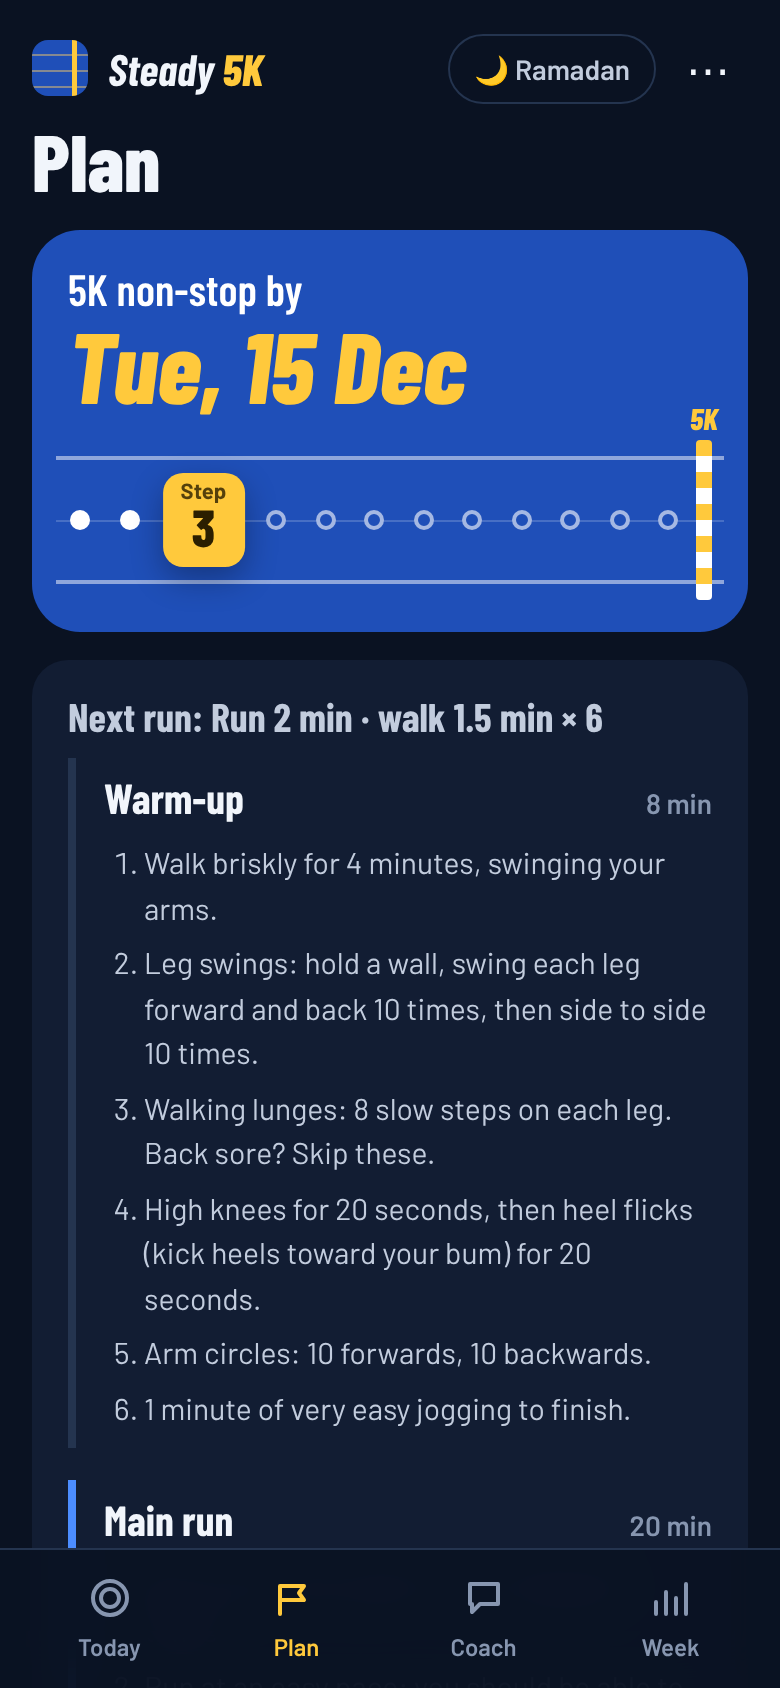
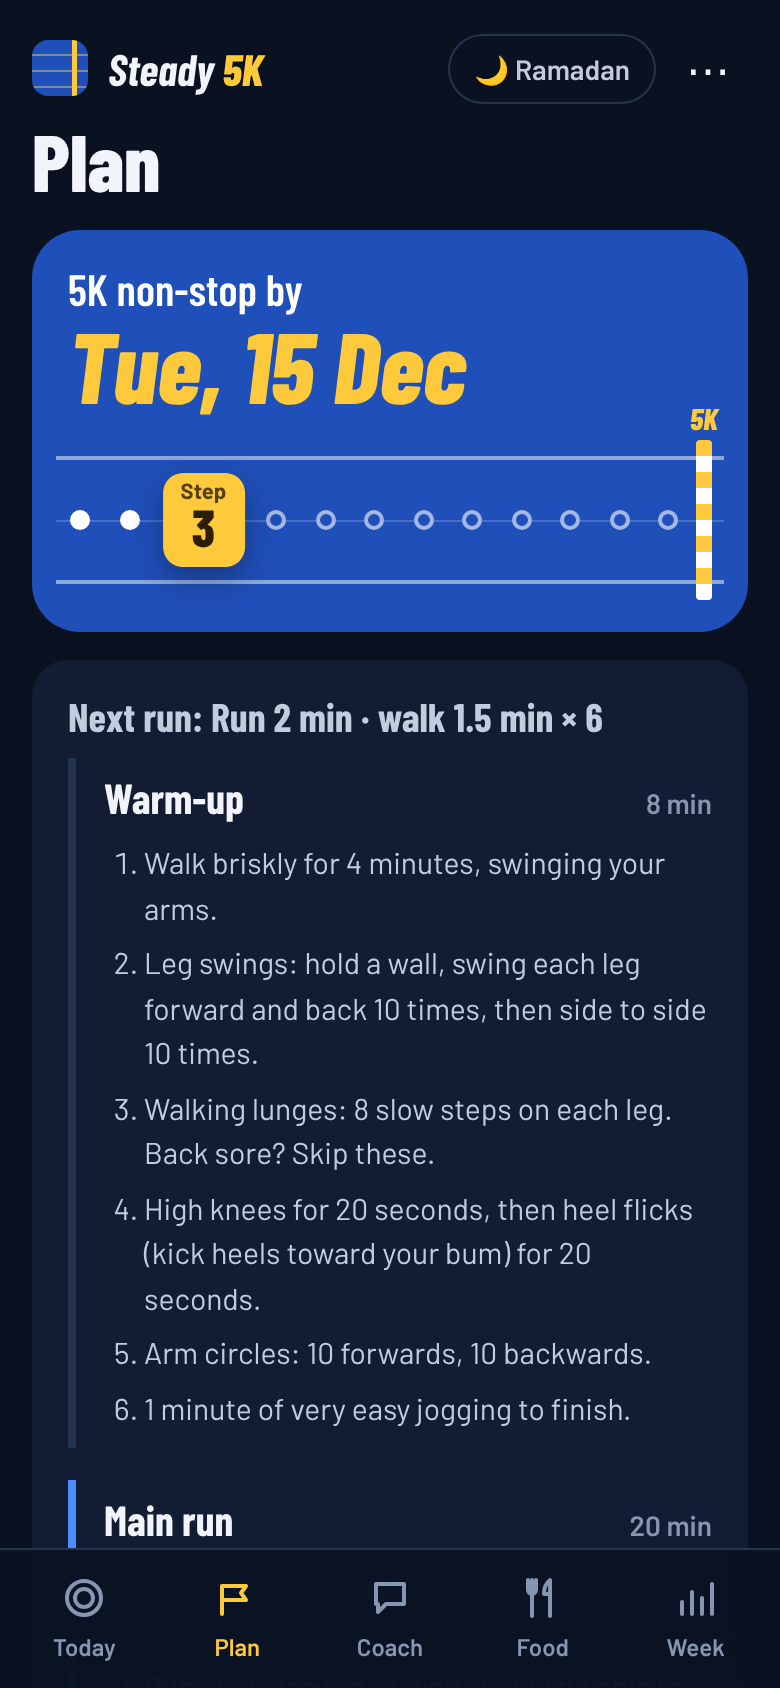
Add a calorie tracker: Food tab to add meals by typing or voice, AI estimates per item, grouped by meal, remove, 7-day chart
Claude-Session: https://claude.ai/code/session_01KnAXkYM5bv2tZhbofiWiib

diff --git a/app.js b/app.js
@@ -160,7 +160,7 @@
     return addDays(new Date(), Math.max(days, S.step === LAST ? 0 : 2));
   }
   function context() {
-    const recent = S.logs.slice(-4).map((l) => ({ date: l.date, said: l.text.slice(0, 200), action: l.parsed?.plan_action, red_flag: l.parsed?.red_flag }));
+    const recent = S.logs.filter((l) => l.kind !== 'meal').slice(-4).map((l) => ({ date: l.date, said: l.text.slice(0, 200), action: l.parsed?.plan_action, red_flag: l.parsed?.red_flag }));
     return {
       today: dayKey(), time: new Date().toTimeString().slice(0, 5),
       goals: Object.keys(S.goals || {}).map(labelOf), goal_in_focus: S.goal ? labelOf(S.goal) : '', running_goal: hasRun() ? GOAL.title : 'none', plan_ladder: STEPS.slice(1).map((_, i) => `${i + 1} ${stepText(i + 1)}`).join('; '),
@@ -268,7 +268,7 @@
   }
   function setTab(t) {
     tab = t;
-    for (const n of ['today', 'plan', 'coach', 'week']) $('tab-' + n).hidden = n !== t;
+    for (const n of ['today', 'plan', 'coach', 'food', 'week']) $('tab-' + n).hidden = n !== t;
     document.querySelectorAll('#tabbar button').forEach((b) => b.toggleAttribute('aria-current', b.dataset.tab === t));
     $('dock').hidden = t !== 'coach';
     $('tabbar').hidden = false;
@@ -291,6 +291,80 @@
         `<circle cx="${C}" cy="${C}" r="${r}" class="r-fg" style="stroke:${p.color};stroke-dasharray:${len};stroke-dashoffset:${len * (1 - f)}"/>`;
     }).join('');
     return `<svg viewBox="0 0 180 180" role="img" aria-label="${parts.map((p) => `${p.label} ${p.text}`).join(', ')}">${arcs}</svg>`;
+  }
+
+  // ---------- Food tab: calorie tracker (rough ranges, no targets) ----------
+  const SLOTS = ['Breakfast', 'Lunch', 'Snacks', 'Dinner'];
+  const slotNow = () => { const h = new Date().getHours(); return h < 11 ? 'Breakfast' : h < 16 ? 'Lunch' : h < 19 ? 'Snacks' : 'Dinner'; };
+  let mealSlot = slotNow();
+  const r50 = (n) => Math.round(n / 50) * 50;
+
+  function renderFood(T) {
+    document.querySelectorAll('#segMeal button').forEach((b) => b.setAttribute('aria-checked', String(b.dataset.v === mealSlot)));
+    $('foodDayTotal').innerHTML = T.food ? `<b>${r50(T.kLow)}–${r50(T.kHigh)}</b> kcal today, approx.` : 'Nothing logged yet today. Add what you ate above.';
+    const groups = {};
+    S.logs.forEach((l, li) => {
+      if (l.date !== dayKey()) return;
+      (l.parsed?.log?.meals || []).forEach((m, mi) => {
+        const g = l.kind === 'meal' ? (l.slot || 'Snacks') : 'From your check-ins';
+        (groups[g] = groups[g] || []).push({ ...m, li, mi });
+      });
+    });
+    const order = [...SLOTS, 'From your check-ins'].filter((g) => groups[g]);
+    $('mealGroups').innerHTML = order.map((g) => {
+      const lo = groups[g].reduce((a, m) => a + (+m.kcal_low || 0), 0), hi = groups[g].reduce((a, m) => a + (+m.kcal_high || 0), 0);
+      return `<div class="meal-group"><div class="mg-h"><b>${g}</b><span>${r50(lo)}–${r50(hi)} kcal</span></div><ul class="meals">${groups[g].map((m) =>
+        `<li><span>${esc(m.item)}</span><b>${m.kcal_low}–${m.kcal_high}</b><button class="rm" data-rm="${m.li}:${m.mi}" aria-label="Remove ${esc(m.item)}">×</button></li>`).join('')}</ul></div>`;
+    }).join('');
+    $('fuelNote').textContent = T.run ? 'You ran today, so make sure your meals have enough carbs and protein to recover.' : '';
+    let cb = ''; const cv = [];
+    for (let i = 6; i >= 0; i--) { const k = dayKey(addDays(new Date(), -i)); const D = dayTotals(k); cv.push([k, D.food ? Math.round((D.kLow + D.kHigh) / 2) : 0]); }
+    const cmax = Math.max(1000, ...cv.map((v) => v[1]));
+    for (const [k, v] of cv) cb += `<div class="wb ${k === dayKey() ? 'today' : ''}"><span>${v ? (v / 1000).toFixed(1) + 'k' : ''}</span><i style="height:${(v / cmax) * 70}%"></i>${new Date(k).toLocaleDateString('en-IN', { weekday: 'narrow' })}</div>`;
+    $('calbars').innerHTML = cb;
+  }
+
+  // Offline stand-in: typical Indian portions as ranges.
+  const FOOD_DB = [
+    [/roti|chapati|phulka/, 'roti', 80, 120], [/paratha/, 'paratha', 200, 300], [/naan/, 'naan', 250, 350],
+    [/biryani/, 'biryani (plate)', 500, 900], [/rice|chawal/, 'rice (bowl)', 200, 300], [/dal/, 'dal (bowl)', 150, 250],
+    [/sabzi|bhindi|aloo|bhaji|vegetable/, 'sabzi (bowl)', 100, 200], [/chicken/, 'chicken curry (bowl)', 250, 400],
+    [/fish/, 'fish curry (bowl)', 200, 350], [/egg|anda/, 'egg', 70, 90], [/dosa/, 'dosa', 150, 250], [/idli/, 'idli', 60, 90],
+    [/poha/, 'poha (plate)', 250, 350], [/upma/, 'upma (plate)', 250, 350], [/samosa/, 'samosa', 150, 250], [/pav|bhaji/, 'pav bhaji', 400, 600],
+    [/chai|tea/, 'chai', 80, 120], [/coffee/, 'coffee with milk', 60, 120], [/banana|kela/, 'banana', 90, 120], [/apple/, 'apple', 70, 100],
+    [/dates|khajur/, 'dates (3)', 60, 80], [/pizza/, 'pizza (slice)', 250, 350], [/burger/, 'burger', 400, 600], [/coke|cold drink|soda/, 'cold drink', 130, 160],
+    [/milk|doodh/, 'milk (glass)', 120, 160], [/curd|dahi/, 'curd (bowl)', 80, 120], [/salad/, 'salad', 50, 120],
+  ];
+  function demoMeal(text) {
+    const parts = text.toLowerCase().split(/,| and | aur |\+|&/).map((x) => x.trim()).filter(Boolean);
+    const meals = [];
+    for (const part of parts) {
+      const hit = FOOD_DB.find(([re]) => re.test(part)); if (!hit) continue;
+      const n = +((part.match(/\d+/) || [1])[0]) || 1;
+      meals.push({ item: n > 1 ? `${n} × ${hit[1]}` : hit[1], kcal_low: hit[2] * n, kcal_high: hit[3] * n });
+    }
+    return { meals, reply: meals.length ? '' : 'I could not recognise that food offline. Try naming each item, like "2 roti, dal".' };
+  }
+
+  async function addMeal() {
+    const box = $('mealText'), text = box.value.trim();
+    if (!text) { toast('Write what you ate first, for example "2 rotis and dal".'); return; }
+    $('mealAdd').disabled = true;
+    let r = await ai('meal', text, { slot: mealSlot, today: dayKey() });
+    if (!Array.isArray(r.meals)) r = demoMeal(text);
+    $('mealAdd').disabled = false;
+    const meals = (r.meals || []).filter((m) => m && m.item).map((m) => ({ item: String(m.item).slice(0, 60), kcal_low: Math.max(0, Math.round(+m.kcal_low || 0)), kcal_high: Math.max(0, Math.round(+m.kcal_high || 0)) }));
+    if (!meals.length) { toast(r.reply || 'I could not find any food in that. Try naming each item.'); return; }
+    S.logs.push({ date: dayKey(), at: Date.now(), kind: 'meal', slot: mealSlot, text, parsed: { log: { meals, symptoms: [] }, reply: r.reply || '' } });
+    box.value = ''; autoGrow(box); save(); renderToday();
+    toast(`Added to ${mealSlot.toLowerCase()}: about ${r50(meals.reduce((a, m) => a + m.kcal_low, 0))}–${r50(meals.reduce((a, m) => a + m.kcal_high, 0))} kcal.`);
+  }
+
+  function removeMeal(li, mi) {
+    const l = S.logs[li]; if (!l?.parsed?.log?.meals) return;
+    l.parsed.log.meals.splice(mi, 1);
+    if (l.kind === 'meal' && !l.parsed.log.meals.length) S.logs.splice(li, 1);
+    save(); renderToday();
   }
 
   function renderToday() {
@@ -323,26 +397,18 @@
     $('foodCard').hidden = !calGoal;
     if (calGoal) {
       const meals = logsFor(dayKey()).flatMap((l) => l.parsed?.log?.meals || []);
-      $('foodTotal').innerHTML = T.food ? `<b>${Math.round(T.kLow / 50) * 50}–${Math.round(T.kHigh / 50) * 50}</b> kcal so far, approx.` : 'Nothing logged yet today. Tell the coach what you ate.';
+      $('foodTotal').innerHTML = T.food ? `<b>${Math.round(T.kLow / 50) * 50}–${Math.round(T.kHigh / 50) * 50}</b> kcal so far, approx.` : 'Nothing logged yet today.';
       $('mealsToday').innerHTML = meals.map((m) => `<li><span>${esc(m.item)}</span><b>${m.kcal_low}–${m.kcal_high}</b></li>`).join('');
     }
     const tt = $('tab-today');
     if (calFocus) tt.insertBefore($('foodCard'), document.querySelector('.rings-card')); else tt.insertBefore($('foodCard'), $('nextCard'));
     $('nextCard').hidden = !hasRun();
     $('runPlan').hidden = !hasRun();
-    $('foodWeek').hidden = !calGoal;
-    const tp = $('tab-plan');
-    if (calFocus || !hasRun()) tp.insertBefore($('foodWeek'), $('runPlan')); else tp.appendChild($('foodWeek'));
-    if (calGoal) {
-      let cb = ''; const cv = [];
-      for (let i = 6; i >= 0; i--) { const k = dayKey(addDays(new Date(), -i)); const D = dayTotals(k); cv.push([k, D.food ? Math.round((D.kLow + D.kHigh) / 2) : 0]); }
-      const cmax = Math.max(1000, ...cv.map((v) => v[1]));
-      for (const [k, v] of cv) cb += `<div class="wb ${k === dayKey() ? 'today' : ''}"><span>${v ? (v / 1000).toFixed(1) + 'k' : ''}</span><i style="height:${(v / cmax) * 70}%"></i>${new Date(k).toLocaleDateString('en-IN', { weekday: 'narrow' })}</div>`;
-      $('calbars').innerHTML = cb;
-    }
+
+    renderFood(T);
 
     // Coach card: the latest thing the coach said today
-    const todays = logsFor(dayKey());
+    const todays = logsFor(dayKey()).filter((l) => l.kind !== 'meal');
     const last = todays[todays.length - 1];
     if (last) { $('coachMsg').textContent = last.parsed?.reply || ''; $('coachTime').textContent = 'replying to your check-in'; }
     else if (S.morning?.date === dayKey()) { $('coachMsg').textContent = S.morning.message; $('coachTime').textContent = 'today'; }
@@ -583,6 +649,10 @@
     if (pick) { const id = pick.dataset.goal; const switched = id !== S.goal; activate(id); renderToday(); setTab('today'); if (switched && isRun(id)) morning(true); }
   });
   $('addGoal').addEventListener('click', openSetup);
+  $('mealAdd').addEventListener('click', addMeal);
+  $('mealText').addEventListener('input', (e) => autoGrow(e.target));
+  $('segMeal').addEventListener('click', (e) => { const b = e.target.closest('[data-v]'); if (b) { mealSlot = b.dataset.v; document.querySelectorAll('#segMeal button').forEach((x) => x.setAttribute('aria-checked', String(x.dataset.v === mealSlot))); } });
+  $('mealGroups').addEventListener('click', (e) => { const b = e.target.closest('[data-rm]'); if (!b) return; const [li, mi] = b.dataset.rm.split(':').map(Number); removeMeal(li, mi); });
   $('goalSwitch').addEventListener('click', renderGoals);
   $('ciSend').addEventListener('click', checkin);
   $('ciText').addEventListener('input', (e) => autoGrow(e.target));

diff --git a/index.html b/index.html
@@ -108,7 +108,7 @@
           <h3 class="sec-title">Food today</h3>
           <p class="food-total" id="foodTotal"></p>
           <ul class="meals" id="mealsToday"></ul>
-          <p class="small">Rough ranges from what you tell the coach. No targets, no diet.</p>
+          <button class="btn-link left" data-go="food">Add food</button>
         </section>
 
         <section class="card next" id="nextCard">
@@ -125,11 +125,6 @@
       <!-- PLAN -->
       <main id="tab-plan" class="panel" hidden>
         <h1 class="day-title" id="planTitle">Plan</h1>
-        <section class="card" id="foodWeek" hidden>
-          <h3 class="sec-title">Calories, last 7 days</h3>
-          <div class="weekbars" id="calbars"></div>
-          <p class="small">Each bar is the middle of that day's estimated range. Use it to spot patterns, like low-fuel days before a run.</p>
-        </section>
         <div id="runPlan">
         <section class="track-panel" aria-label="Your progress to 5K">
           <div class="track-head">
@@ -162,6 +157,34 @@
         <div class="spacer"></div>
       </main>
 
+      <!-- FOOD: calorie tracker (rough ranges, no targets) -->
+      <main id="tab-food" class="panel" hidden>
+        <h1 class="day-title">Food</h1>
+        <section class="card">
+          <h3 class="sec-title">Add what you ate</h3>
+          <div class="seg seg-sm" id="segMeal" role="radiogroup" aria-label="Which meal">
+            <button data-v="Breakfast">Breakfast</button><button data-v="Lunch">Lunch</button><button data-v="Snacks">Snacks</button><button data-v="Dinner">Dinner</button>
+          </div>
+          <div class="composer">
+            <textarea id="mealText" rows="2" placeholder="e.g. 2 rotis, dal and bhindi"></textarea>
+            <button class="mic" data-target="mealText" aria-label="Speak instead"><svg viewBox="0 0 24 24" width="20" height="20" aria-hidden="true"><rect x="9" y="3" width="6" height="11" rx="3" fill="none" stroke="currentColor" stroke-width="2"/><path d="M5.5 11a6.5 6.5 0 0 0 13 0M12 17.5V21" fill="none" stroke="currentColor" stroke-width="2" stroke-linecap="round"/></svg></button>
+            <button id="mealAdd" class="send" aria-label="Add this food"><svg viewBox="0 0 24 24" width="20" height="20" aria-hidden="true"><path d="M12 5v14M5 12h14" fill="none" stroke="currentColor" stroke-width="2.6" stroke-linecap="round"/></svg></button>
+          </div>
+        </section>
+        <section class="card">
+          <h3 class="sec-title">Today</h3>
+          <p class="food-total" id="foodDayTotal"></p>
+          <div id="mealGroups"></div>
+          <p class="small" id="fuelNote"></p>
+          <p class="small">Rough estimates from what you describe, shown as ranges. No targets, no diet.</p>
+        </section>
+        <section class="card">
+          <h3 class="sec-title">Calories, last 7 days</h3>
+          <div class="weekbars" id="calbars"></div>
+          <p class="small">Each bar is the middle of that day's estimated range. Useful for spotting low-fuel days before a run.</p>
+        </section>
+      </main>
+
       <!-- WEEK -->
       <main id="tab-week" class="panel" hidden>
         <h1 class="day-title">Week</h1>
@@ -187,6 +210,7 @@
         <button data-tab="today" aria-current="page"><svg viewBox="0 0 24 24" aria-hidden="true"><circle cx="12" cy="12" r="8.5"/><circle cx="12" cy="12" r="4.5"/></svg>Today</button>
         <button data-tab="plan"><svg viewBox="0 0 24 24" aria-hidden="true"><path d="M4 20V6M4 6h12l-2.5 3.5L16 13H4"/></svg>Plan</button>
         <button data-tab="coach"><svg viewBox="0 0 24 24" aria-hidden="true"><path d="M5 5h14v10H10l-4 4v-4H5z"/></svg>Coach</button>
+        <button data-tab="food"><svg viewBox="0 0 24 24" aria-hidden="true"><path d="M7 3v8M5 3v5a2 2 0 0 0 4 0V3M7 11v10M16 21V3c-2 1.5-3 4-3 7h3"/></svg>Food</button>
         <button data-tab="week"><svg viewBox="0 0 24 24" aria-hidden="true"><path d="M5 20v-6M10 20V9M15 20v-8M20 20V5"/></svg>Week</button>
       </nav>
     </div>

diff --git a/style.css b/style.css
@@ -195,7 +195,7 @@ h1 { font-size: 46px; font-weight: 800; font-style: italic; margin: 14px 0 12px;
 .dock { position: fixed; left: 0; right: 0; bottom: calc(64px + env(safe-area-inset-bottom)); padding: 10px 16px; background: linear-gradient(to top, var(--bg) 70%, transparent); z-index: 7; }
 .dock .composer { max-width: 488px; margin: 0 auto; }
 .spacer { height: 70px; }
-.tabbar { position: fixed; left: 0; right: 0; bottom: 0; z-index: 8; display: grid; grid-template-columns: repeat(4, 1fr); max-width: 520px; margin: 0 auto; padding: 6px 8px calc(6px + env(safe-area-inset-bottom)); background: rgba(10,18,34,.94); backdrop-filter: blur(12px); border-top: 1px solid var(--line); }
+.tabbar { position: fixed; left: 0; right: 0; bottom: 0; z-index: 8; display: grid; grid-template-columns: repeat(5, 1fr); max-width: 520px; margin: 0 auto; padding: 6px 4px calc(6px + env(safe-area-inset-bottom)); background: rgba(10,18,34,.94); backdrop-filter: blur(12px); border-top: 1px solid var(--line); }
 .tabbar button { border: 0; background: transparent; color: var(--muted); display: flex; flex-direction: column; align-items: center; gap: 3px; padding: 6px 0; font-size: 12px; font-weight: 600; border-radius: 12px; }
 .tabbar svg { width: 24px; height: 24px; fill: none; stroke: currentColor; stroke-width: 2; stroke-linecap: round; stroke-linejoin: round; }
 .tabbar button[aria-current] { color: var(--bib); }
@@ -253,3 +253,15 @@ h1 { font-size: 46px; font-weight: 800; font-style: italic; margin: 14px 0 12px;
 .meals li { display: flex; justify-content: space-between; gap: 10px; padding: 8px 0; border-bottom: 1px solid var(--line); font-size: 15px; color: var(--ink-2); }
 .meals li b { font-weight: 700; color: var(--ink); white-space: nowrap; }
 .composer-lg textarea { min-height: 84px; }
+
+/* ---------- Food tab ---------- */
+.seg-sm { margin-bottom: 12px; }
+.seg-sm button { padding: 8px 12px; font-size: 14px; }
+.meal-group { margin-top: 10px; }
+.mg-h { display: flex; justify-content: space-between; align-items: baseline; }
+.mg-h b { font-family: var(--display); font-size: 19px; font-weight: 700; }
+.mg-h span { font-size: 14px; color: var(--muted); font-weight: 600; }
+.meals li { align-items: center; }
+.meals li span { flex: 1; }
+.rm { border: 0; background: transparent; color: var(--muted); font-size: 22px; line-height: 1; width: 32px; height: 32px; border-radius: 8px; flex: none; }
+.rm:hover { color: var(--flag); background: var(--flag-bg); }

diff --git a/api/coach.js b/api/coach.js
@@ -50,6 +50,12 @@ Output ONLY valid JSON matching the requested shape.`;
 
 function prompt(mode, text, ctx) {
   const c = JSON.stringify(ctx || {});
+  if (mode === 'meal') {
+    return `He is logging food for his calorie tracker (${(ctx && ctx.slot) || 'a meal'}): """${text}"""
+Split it into separate items. For each, estimate calories for a typical Indian home portion as a range (kcal_low, kcal_high). Use counts he gives ("2 rotis"); if he gives no amount, assume one normal portion and widen the range. Name each item briefly with its amount, e.g. "2 rotis", "dal (1 bowl)".
+Do not invent foods he did not mention. If there is no food in the message, return an empty list and ask what he ate in the reply.
+Return JSON: {"meals": [{"item": string, "kcal_low": number, "kcal_high": number}], "reply": string (one short sentence; no lecture, no targets)}`;
+  }
   if (mode === 'goals') {
     return `He is writing his goal(s) for the app in his own words: """${text}"""
 Context: ${c}
@@ -103,7 +109,7 @@ module.exports = async (req, res) => {
   let body = req.body;
   if (typeof body === 'string') { try { body = JSON.parse(body); } catch { body = {}; } }
   const { mode, text = '', context = {} } = body || {};
-  if (!['onboard', 'goals', 'checkin', 'morning'].includes(mode)) return res.status(400).json({ error: 'bad mode' });
+  if (!['onboard', 'goals', 'meal', 'checkin', 'morning'].includes(mode)) return res.status(400).json({ error: 'bad mode' });
   if (typeof text !== 'string' || text.length > 1500) return res.status(400).json({ error: 'text too long' });
 
   const payload = {

diff --git a/REPORT.md b/REPORT.md
@@ -132,7 +132,7 @@ Every screen shows a "not medical advice" notice, and only made-up data is used.
 | N05 | Offline demo mode | Build now | If the AI call fails (D08), the app still logs and shows the plan, with a clear banner. |
 | N06 | Strava import | Later | He already records runs in Strava; importing them would save him retyping distance and time. |
 | N07 | Full session guide | Build now | Every run comes with a step-by-step warm-up, the main run with a pace cue ("you can speak in short sentences"), a cool-down with stretches, and tips (Ramadan timing, when to stop). Rizwan is two months into running and struggles with stamina and back pain; a bare "run 3 min, walk 1.5 min" assumes he knows how to warm up. It is folded away so the daily screen stays short (H4). |
-| N08 | Calorie-tracking goal | Build now (after the user test) | Rizwan asked to "monitor my calorie intake" alongside running (Q5). Awareness only: rough ranges per meal, a daily total and a 7-day chart, with no target, deficit or diet (F04 stays Never). |
+| N08 | Calorie tracker (Food tab) | Build now (after the user test) | Rizwan asked to "monitor my calorie intake" alongside running (Q5). He adds food any time by typing or voice, grouped by meal; the AI estimates each item as a range; check-in meals appear too; a 7-day chart shows patterns. Awareness only: no target, deficit or diet (F04 stays Never). |
 
 That is 9 of 18 class features built in some form, most of them reshaped, plus 7 new ones. Choosing one customer removed the reason for most of the rest.
 
@@ -149,7 +149,7 @@ That is 9 of 18 class features built in some form, most of them reshaped, plus 7
 | <img src="docs/screenshots/1-setup.png" width="230"> | <img src="docs/screenshots/2-today.png" width="230"> | <img src="docs/screenshots/3-checkin.png" width="230"> |
 | **4. Plan tab: finish line and full session** | **5. Ramadan mode switches on by itself** | **6. Red flag pauses training** |
 | <img src="docs/screenshots/4-full-session.png" width="230"> | <img src="docs/screenshots/5-ramadan.png" width="230"> | <img src="docs/screenshots/6-red-flag.png" width="230"> |
-| **7. After the test: goals read from his words, level by taps** | **8. Goals saved, editable, all kept going** | **9. Calorie goal in focus: food first, no target** |
+| **7. After the test: goals read from his words, level by taps** | **8. Goals saved, editable, all kept going** | **9. Food tab: calorie tracker, ranges, no target** |
 | <img src="docs/screenshots/7-goals-level.png" width="230"> | <img src="docs/screenshots/8-goal-list.png" width="230"> | <img src="docs/screenshots/9-food.png" width="230"> |
 
 **My three hardest calls:**
@@ -175,7 +175,7 @@ That is 9 of 18 class features built in some form, most of them reshaped, plus 7
 
 1. The first screen now asks **"What's your goal?"**, in his own words. The AI turns his sentence into goals and politely declines anything it cannot help with ("lose 10 kg" was declined in testing).
 2. The starting-level question comes after the goal, says why it is asked ("so your running plan starts at the right level"), and is answered with taps.
-3. A **calorie-tracking goal**: rough ranges per meal and a 7-day chart, with no target or diet (N08).
+3. A **calorie tracker**: a Food tab where he adds what he ate by meal, typed or spoken; the AI estimates each item as a range. No target or diet (N08).
 4. Goals are **saved, editable and all keep going**; he picks the one to focus on.
 
 The second point overturned a call from Q2 and Q4: he ranked calories last in the interview, but once tracking cost him nothing, he wanted it. The new version has not yet been re-tested with him.
